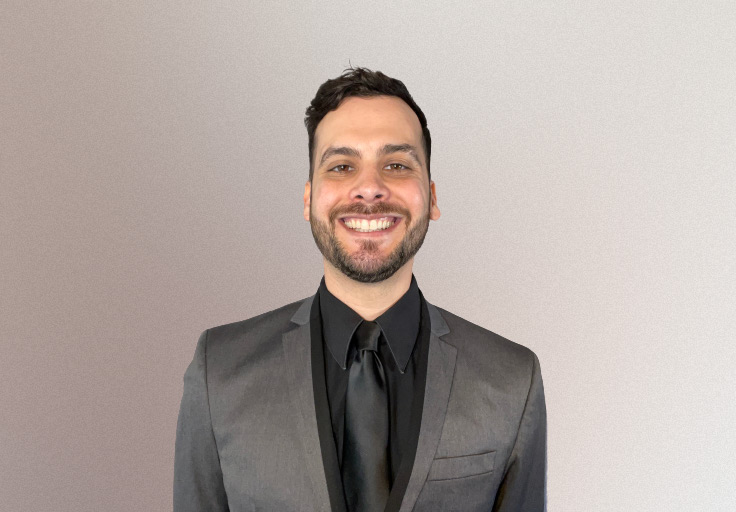
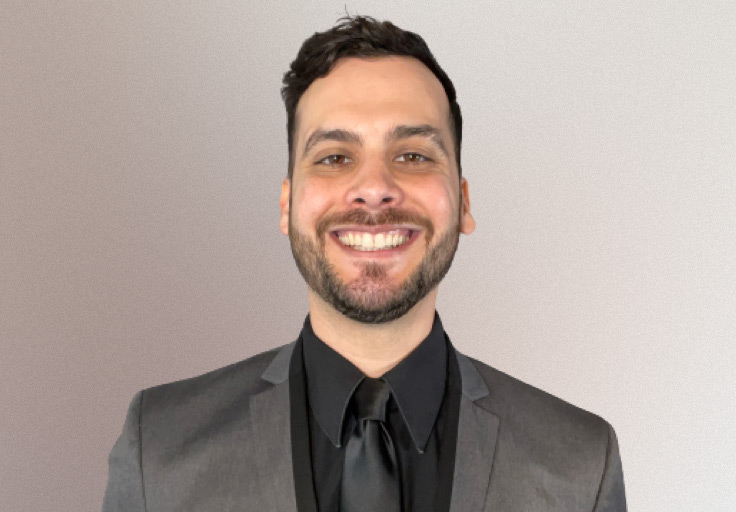
changes

Changed region(s): [[0.125, 0.0312, 0.875, 1.0]]

diff --git a/index.html b/index.html
@@ -52,7 +52,7 @@
 										</ul>
 									</div>
 									<span class="image object">
-										<img src="images/pic10-new.png" alt="" />
+										<img src="images/pic102.png" alt="" />
 									</span>
 								</section>
 
@@ -99,7 +99,7 @@
 										<h2> Latest Projects</h2>
 									</header>
 									<div class="posts">
-										<article>
+										<!-- <article>
 											<a href="#" class="image"><img src="images/pic01.jpg" alt="" /></a>
 											<h3>Interdum aenean</h3>
 											<p>Aenean ornare velit lacus, ac varius enim lorem ullamcorper dolore. Proin aliquam facilisis ante interdum. Sed nulla amet lorem feugiat tempus aliquam.</p>
@@ -130,7 +130,7 @@
 											<ul class="actions">
 												<li><a href="#" class="button">More</a></li>
 											</ul>
-										</article>
+										</article> -->
 										<article>
 											<a href="#" class="image"><img src="/images/nyt-review.png" alt="" /></a>
 											<h3>Feugiat lorem aenean</h3>
